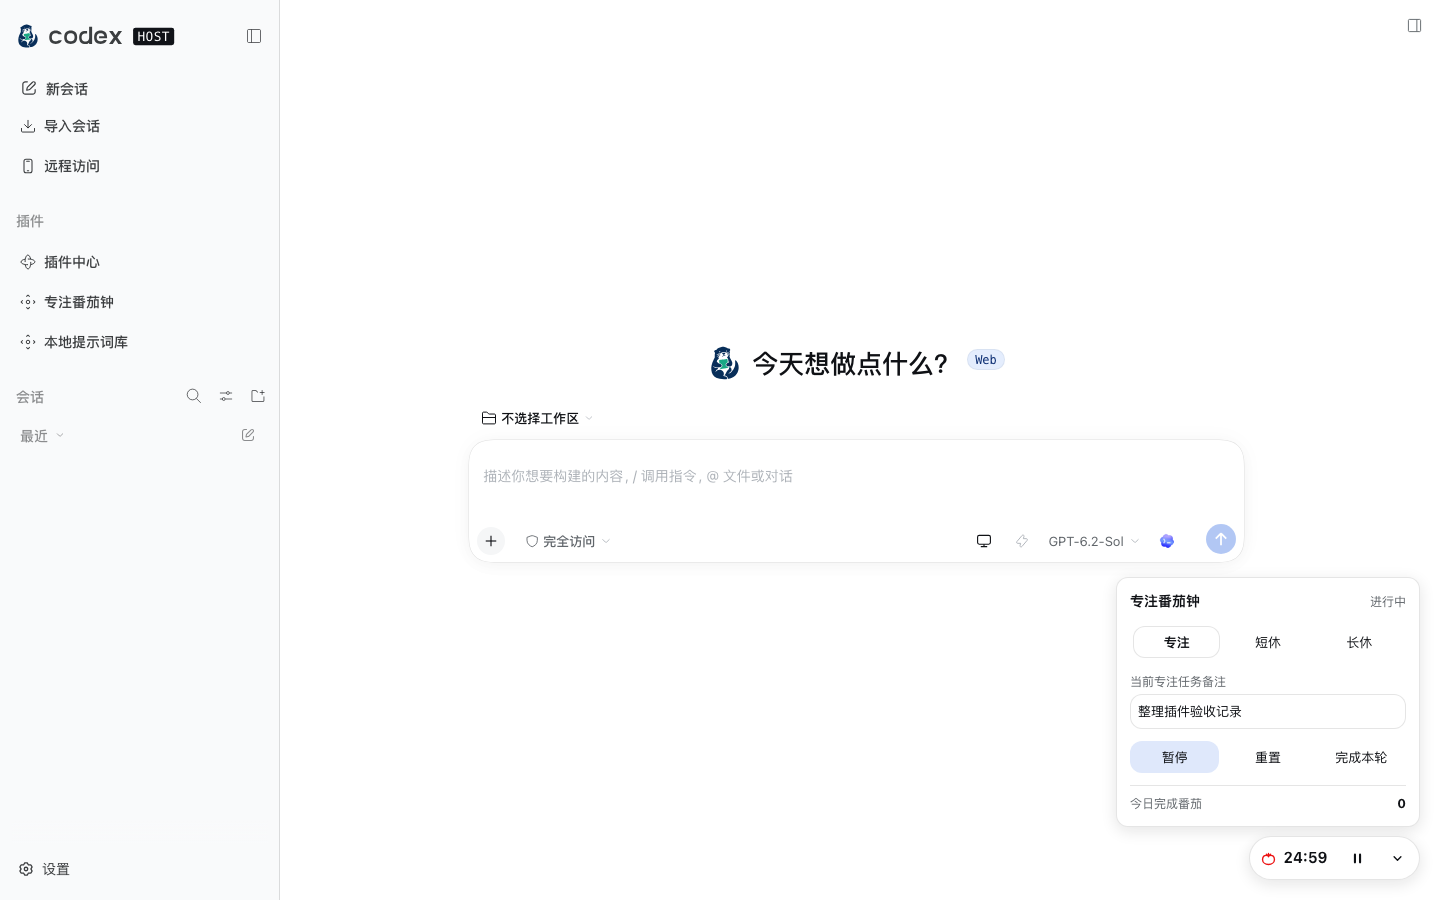
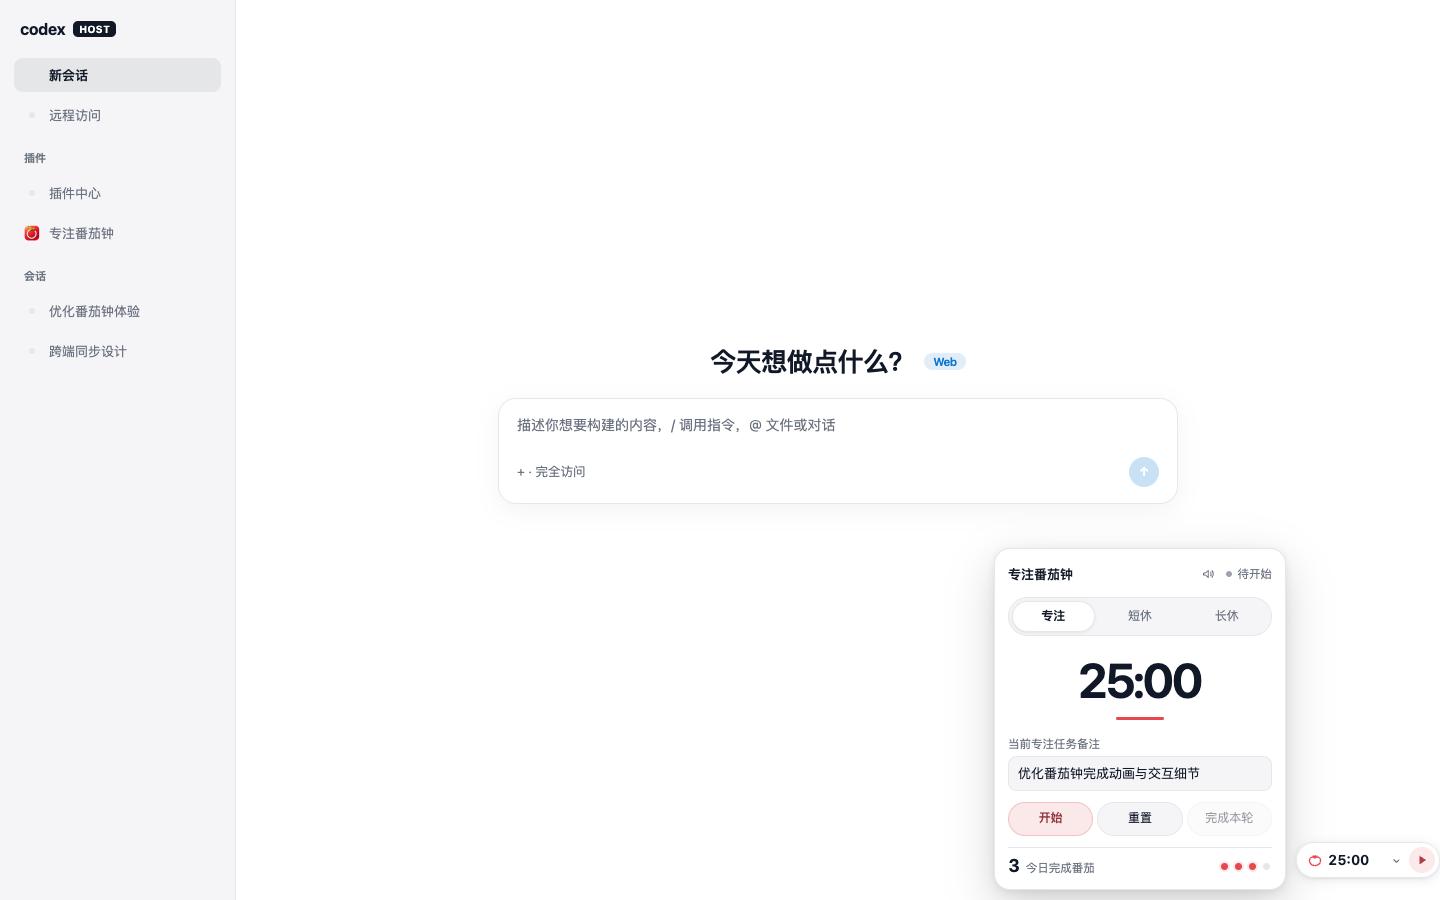
docs: refresh README and v1.3.0 preview screenshots

diff --git a/README.md b/README.md
@@ -1,20 +1,81 @@
-# Focus Pomodoro / 专注番茄钟
+<div align="center">
+  <img src="assets/icon.png" alt="Focus Pomodoro Icon" width="76" height="76" />
+  <h1>Focus Pomodoro / 专注番茄钟</h1>
+  <p>
+    A calm, zero-backend Pomodoro extension for <strong>CodexHost Desktop</strong> &amp; <strong>CH Web</strong> — featuring a compact edge-docking capsule, centered completion celebration animation, inline custom duration editing, and cross-device Host-synced focus history.
+  </p>
+  <p>
+    为 <strong>CodexHost Desktop</strong> 与 <strong>CH Web</strong> 打造的轻量专注番茄钟扩展：支持迷你贴边悬浮胶囊、倒计时完成庆祝动画、点击时间行内自定义时长，以及基于共享 Host 跨端与远程实时同步的专注历史统计，<strong>纯前端零后台进程</strong>。
+  </p>
+</div>
 
-![Focus Pomodoro workspace page](assets/pomodoro-workspace.png)
+---
 
-## English
-
-Focus Pomodoro adds a floating timer widget and a full workspace page to CodexHost Desktop and Web. Start or pause without leaving a conversation, switch between focus, short break, and long break, or use the workspace page to adjust presets and review focus history. When a round finishes, a centered completion celebration animation appears with a gentle optional chime and one-click transition to your next break or focus round. Timer state, task notes, and completed round history persist to shared Host storage (`api.storage`), keeping Codex Desktop, local Web, and remote CH Web in sync with zero backend process.
-
-**Install:** Download `focus-pomodoro.zip` from the [latest release](https://github.com/BytePioneer-AI/codexhost-ext-focus-pomodoro/releases), import and enable it in the CodexHost Extensions Center, then open the sidebar page or use the floating timer. Use a CodexHost build that supports unified v2 extensions with pages and widgets.
+![Focus Pomodoro Workspace Studio](assets/pomodoro-workspace.png)
 
 ## 简体中文
 
-专注番茄钟为 CodexHost Desktop 和 Web 提供悬浮计时组件与独立工作区页面。无需离开对话即可开始或暂停计时，切换专注、短休和长休，或在工作区页面调整预设时长、查看专注记录与近 7 天统计。每轮倒计时结束时，会在屏幕中央展示柔和的完成庆祝动画与可选轻柔提示音，并支持一键进入建议的休息或下一轮专注。倒计时状态、任务备注与历史完成记录均持久化在共享 Host 存储（`api.storage`）中，本机 Desktop、本机 Web 与远程 CH Web 实时同步，无需后台进程。
+### 核心特性
 
-**安装：** 从 [Releases](https://github.com/BytePioneer-AI/codexhost-ext-focus-pomodoro/releases) 下载 `focus-pomodoro.zip`，在 CodexHost 插件中心导入并启用，然后打开侧边栏页面或使用悬浮计时器。需要支持统一 v2 扩展页面与悬浮组件的 CodexHost 版本。
+- **倒计时完成庆祝动画与柔和提示音**
+  - 每轮专注或休息归零时，在屏幕中央弹出磨砂庆祝卡片（弹性入场、3 层扩散脉冲光环、12 颗几何微粒绽放与 SVG 描边徽章，浅/深色及各模式自动适配）。
+  - 内置纯浏览器 Web Audio 柔和和弦提示音（无需外部音频文件），可在插件设置、浮窗顶部或独立页顶栏一键静音。
+  - 智能推荐下一轮操作：第 1–3 轮专注后推荐短休，满 4 轮推荐长休，休息结束一键回到专注；支持点击遮罩、按钮或按 `Esc` 随时关闭。
+- **迷你贴边胶囊与快捷浮窗**
+  - 可自由拖动到窗口任意位置并吸附左右边缘：**未使用时自动深收为仅 `36×36px` 的迷你番茄小耳朵**，不遮挡对话内容；悬停顺滑探出完整胶囊，计时中保持半隐展示实时倒计时。
+  - 点击胶囊就近弹出轻量控制浮窗，无需离开当前对话即可切模式、编辑专注任务备注、开关提示音或启停计时。
+- **点击时间原位自定义时长**
+  - 在「待开始」或「本轮已完成」状态下，直接点击浮窗或表盘中央的 `25:00` 即可原位输入本次自定义时长：支持纯分钟（如 `15`、`0.5`）或 `分:秒`（如 `12:30`、`0:10`），不覆盖默认预设；按 `Esc` 仅取消编辑，点「重置」恢复预设。
+- **纯前端零后台 · 跨端与远程同步 & 专注统计**
+  - 倒计时状态、任务备注与历史完成记录均持久化在 CodexHost 共享 Host 存储（`api.storage`）中，**零常驻 Node 进程、零额外内存开销**。
+  - 本机 Codex Desktop、本机 Web 与**远程访问的 CH Web** 实时互通同步。
+  - 独立计时页内置「专注记录」面板：展示今日 / 近 7 天 / 连续打卡天数 / 累计统计、近 7 天专注趋势柱状图、按日分组明细、单条删除及一键导出 CSV。
 
-![Focus Pomodoro floating widget](assets/pomodoro-widget.png)
+### 界面预览
+
+#### 1. 时间到 · 屏幕中央完成庆祝动画
+![Completion Celebration Animation](assets/pomodoro-celebration.png)
+
+#### 2. 对话页悬浮胶囊与快捷控制浮窗
+![Floating Widget & Quick Popover](assets/pomodoro-widget.png)
+
+#### 3. 专注记录、近 7 天趋势与深色主题
+![Focus History & Dark Mode](assets/pomodoro-history.png)
+
+### 安装与使用
+
+1. **市场安装（推荐）**：打开 CodexHost「设置 → 插件」（Desktop）或侧边栏「插件中心」（CH Web），搜索 **专注番茄钟 / Focus Pomodoro** 直接安装并启用。
+2. **Release 手动导入**：从 [GitHub Releases](https://github.com/BytePioneer-AI/codexhost-ext-focus-pomodoro/releases) 下载最新版 `focus-pomodoro.zip`，在插件中心导入并启用。
+3. **快捷提示**：
+   - 在独立计时页按 `Space` 可快速开始 / 暂停；
+   - 待开始时直接点击 `25:00` 可输入单轮自定义时长；
+   - 可在「插件详情」或独立页底部修改专注 / 短休 / 长休预设时长与提示音开关。
+
+---
+
+## English
+
+### Highlights
+
+- **Centered Completion Celebration & Gentle Chime**
+  - When a focus or break round completes, an animated frosted celebration card appears in the center of your workspace with concentric ripple rings, radial geometric sparkles, and an animated SVG emblem (adaptive to light/dark themes and focus/break modes, respecting `prefers-reduced-motion`).
+  - Plays an optional synthesized Web Audio harmonic chime (no external assets, fully CSP-safe) with a quick mute toggle in the widget header, standalone page top bar, and extension settings.
+  - Suggests the next step with one click (Short Break after rounds 1–3, Long Break after every 4th focus round, Focus after breaks), or dismiss via button, backdrop click, or `Esc`.
+- **Compact Edge-Docking Capsule & Quick Popover**
+  - Drag the floating capsule anywhere and dock it to the left or right edge: **tucks down to a compact `36×36px` tomato icon tab when idle**, glides out smoothly on hover, and semi-tucks to keep the live countdown visible while running.
+  - Click to open a nearby quick popover to switch modes, edit your task note, toggle chime, or start/pause without leaving your conversation.
+- **Click-to-Edit Custom Start Duration**
+  - While ready or finished, click `25:00` directly in either the floating popover or the standalone 60-tick dial to type any per-round custom duration in minutes (`15`, `0.5`) or `MM:SS` (`12:30`, `0:10`) without overwriting your saved defaults. Press `Esc` to cancel or Reset to restore the preset.
+- **Zero-Backend Cross-Device & Remote Sync + Focus History**
+  - Timer state, task notes, and completed round history persist to CodexHost shared Host storage (`api.storage`) with **zero background Node processes**.
+  - Syncs live across local Codex Desktop, local Web, and **remote CH Web** clients.
+  - The standalone Focus Studio page includes a **Focus History** dashboard with Today / 7-Day / Streak / All-Time metrics, a 7-day trend bar chart, date-grouped timeline, per-record deletion, and one-click CSV export.
+
+### Installation
+
+1. **Extension Marketplace (Recommended)**: Open **Settings → Extensions** (Desktop) or **Extensions Center** (CH Web), search for **Focus Pomodoro**, install, and enable.
+2. **Manual ZIP Import**: Download `focus-pomodoro.zip` from [GitHub Releases](https://github.com/BytePioneer-AI/codexhost-ext-focus-pomodoro/releases), import it in the Extensions Center, and enable it.
+3. Requires a CodexHost build supporting unified `manifestVersion: 2` extensions with `page` and `widget` entries.
 
 ## License / 许可证
 
